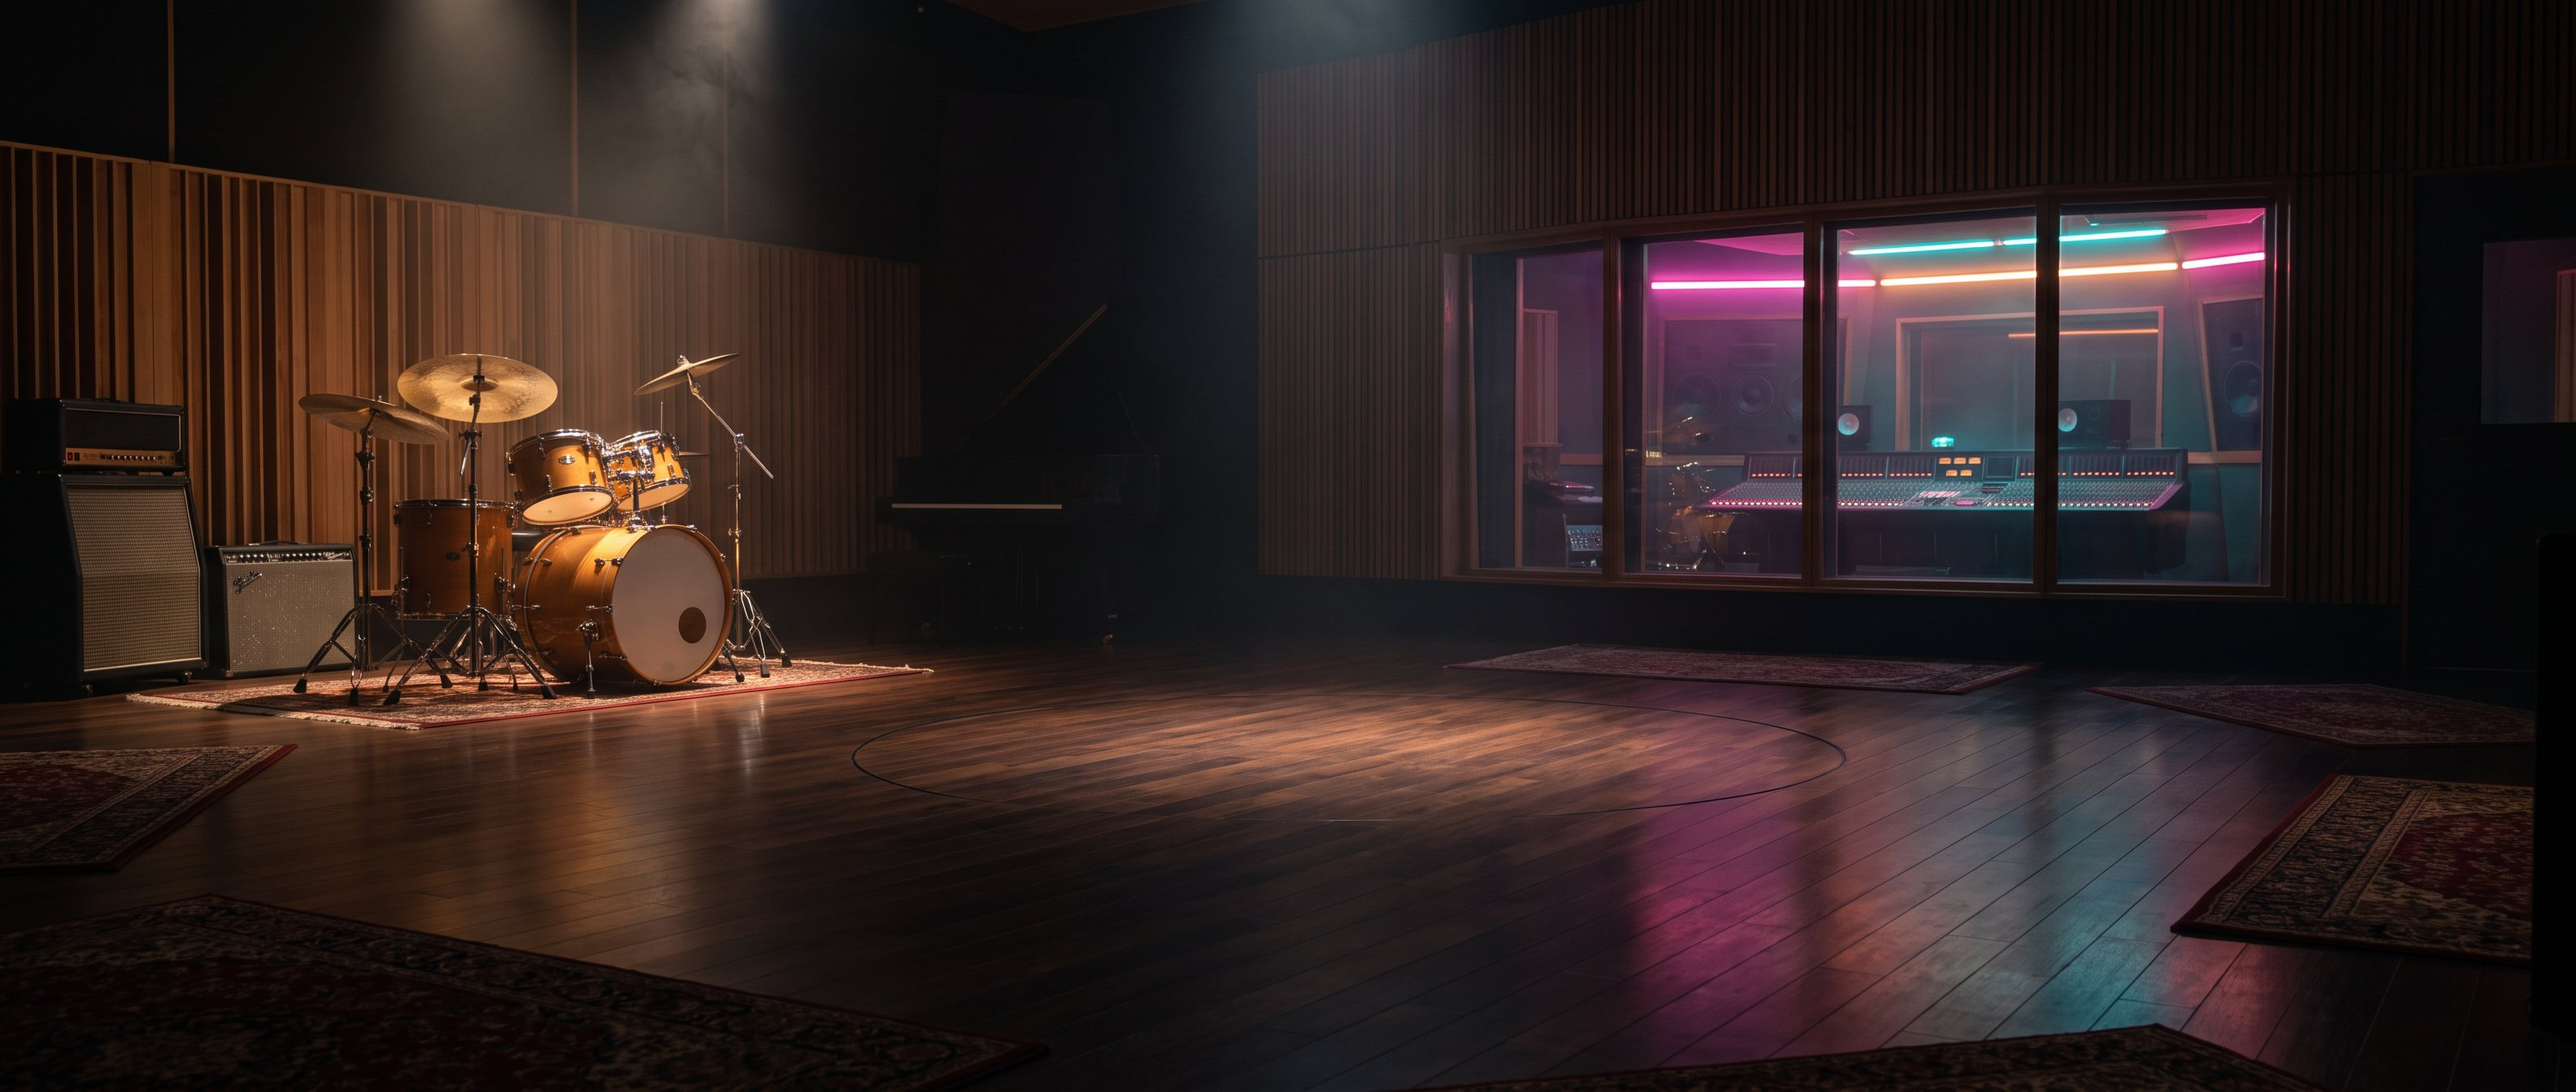
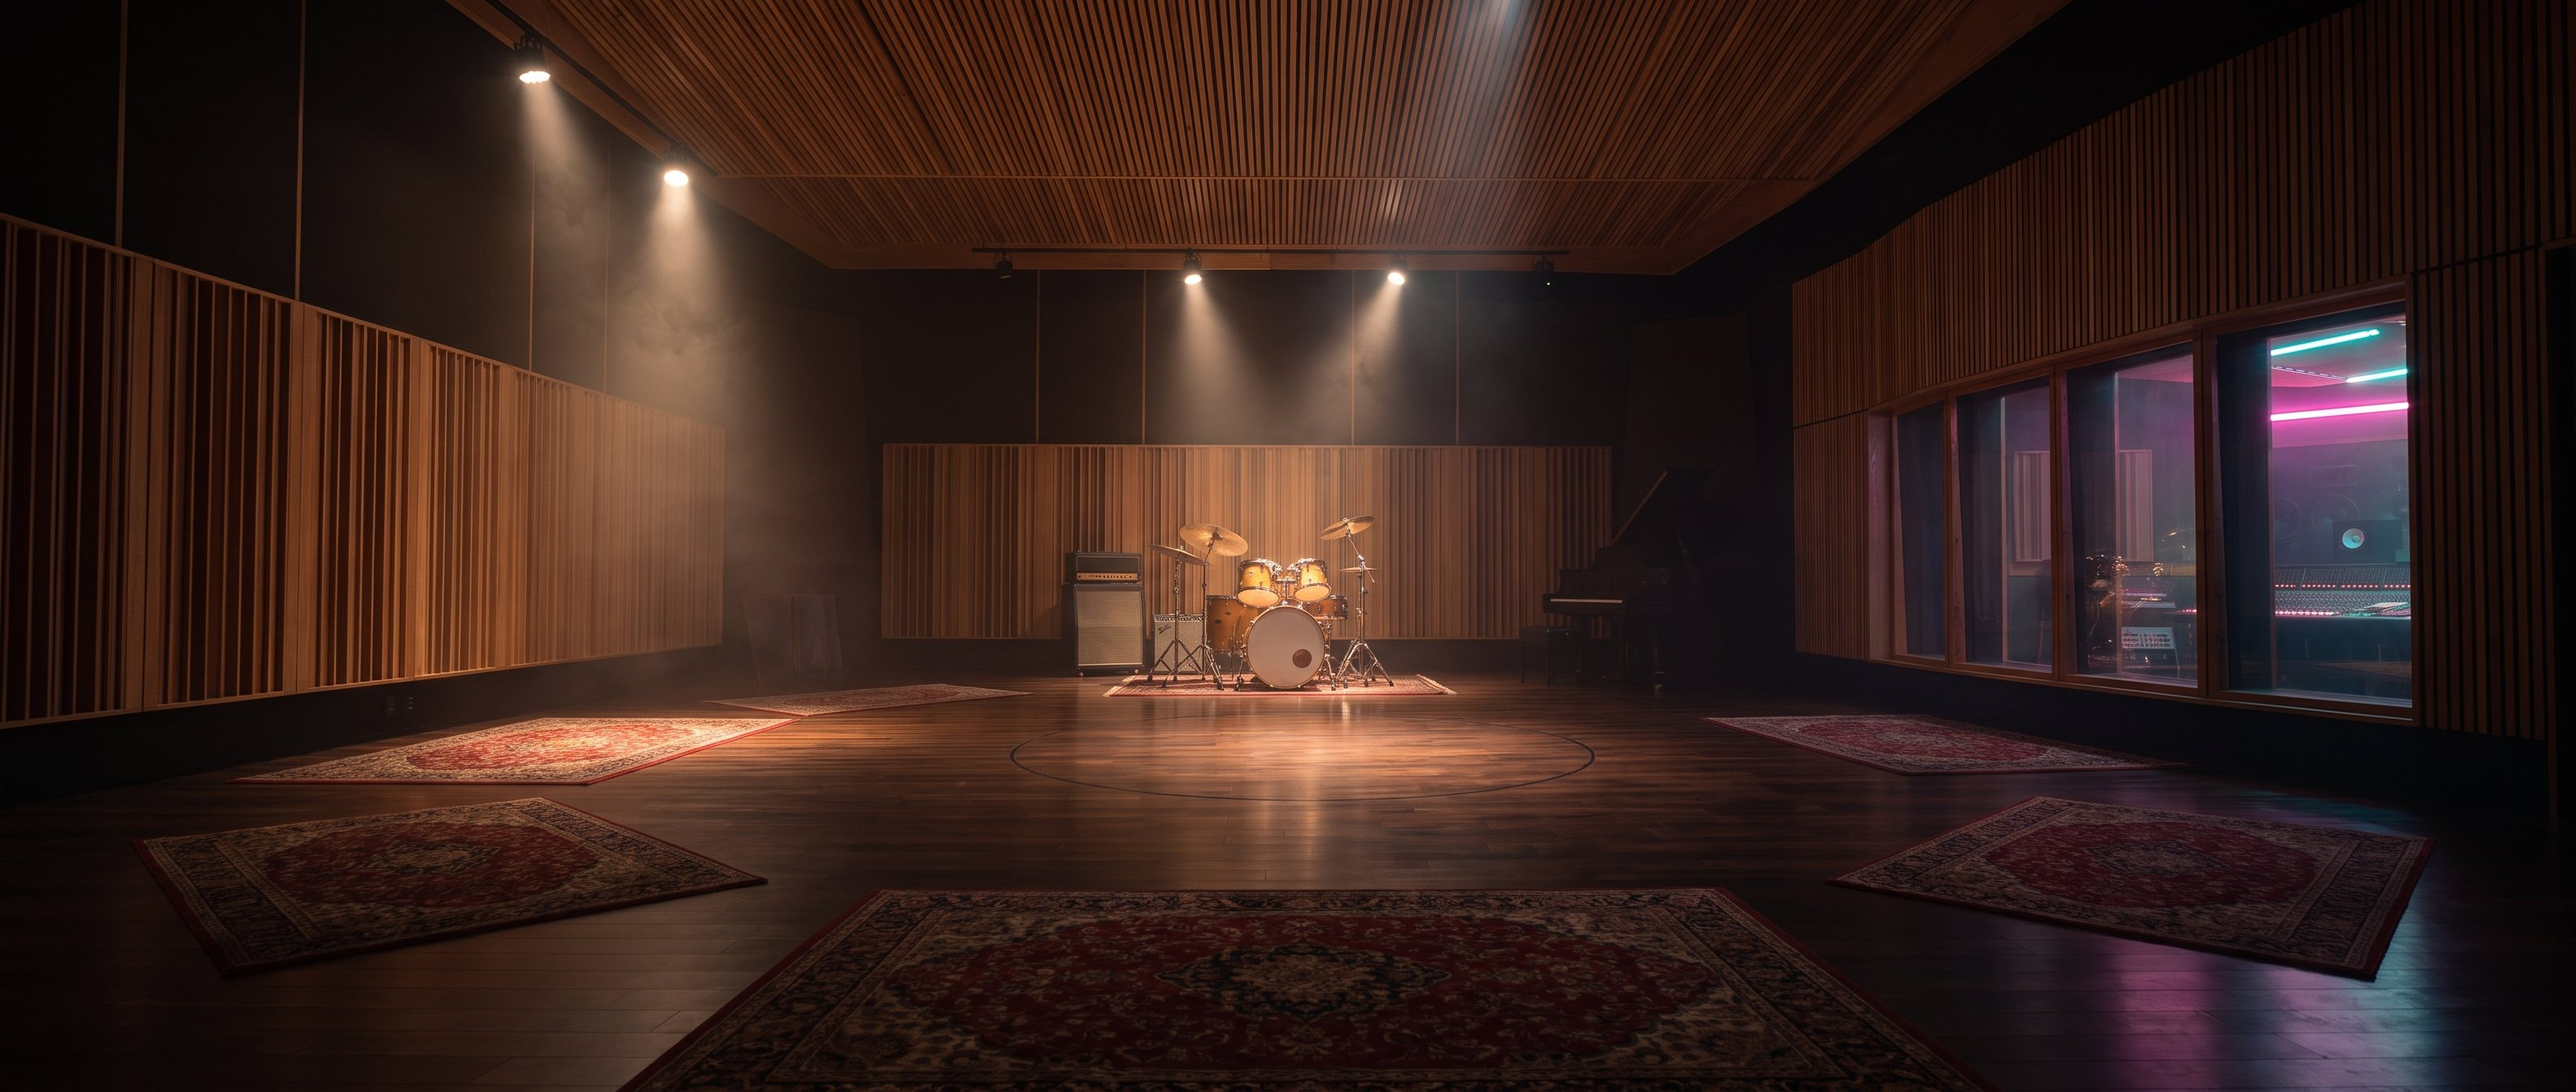
Talk: Berlin park, basketball court, studio in proportion
- Berlin is now a big sunny park (Tiergarten, Victory Column) with daylight
  lighting on him and no floating particles
- New York replaced by centre court in an empty basketball arena
- Studio regenerated as a wider shot and wrapped four times round instead
  of twice, so the drum kit and room sit in proportion to him; the kit sits
  off his shoulder rather than hidden behind him
- Per-world floor opacity, light levels and wrap count; loading text no
  longer says rooftop

diff --git a/public/talk/app.js b/public/talk/app.js
@@ -40,25 +40,29 @@ const camera = new THREE.PerspectiveCamera(32, 1, 0.1, 300);
 // so the edges always meet and you can swivel 360 degrees without a gap.
 const IMG_ASPECT = 3168 / 1344;
 const R = 34;
-const BH = (R * Math.PI) / IMG_ASPECT; // each copy spans half the circumference
+// Each world wraps its picture round the circle `copies` times (mirrored, so the joins are seamless).
+// Two copies suit skylines and big spaces; an interior uses four so its furniture is drawn at half the
+// size and sits in proportion to him.
+const bandHeight = (copies) => (2 * Math.PI * R) / copies / IMG_ASPECT;
+const BH = bandHeight(2);
 // Four worlds, all generated with the same framing (scripts/gen-world.mjs). Each one tints the
 // floor and the rim lights to match its light.
 const WORLDS = {
   bengaluru: { label: "Bengaluru", floor: 0x06070f, rimL: 0xff4fa3, rimR: 0xffa040, hemi: 0x7f8cff },
-  berlin: { label: "Berlin", floor: 0x0d0b09, rimL: 0xffb066, rimR: 0xffd49a, hemi: 0xc9b49a },
-  newyork: { label: "New York", floor: 0x110d10, rimL: 0xff7fa8, rimR: 0xffb36b, hemi: 0xb6a4d6 },
-  studio: { label: "Studio", floor: 0x0b0806, rimL: 0xff4fd2, rimR: 0x45dcff, hemi: 0x8a7a9a },
+  berlin: { label: "Berlin", floor: 0x1c2a12, floorOpacity: 0.55, rimL: 0xfff1d6, rimR: 0xffe2a8, hemi: 0xd6ecff, hemiI: 1.9, keyI: 3.2, particles: false },
+  court: { label: "Court", floor: 0x2a1708, floorOpacity: 0.6, rimL: 0xffb46b, rimR: 0x7fb4ff, hemi: 0xffe6c8, hemiI: 1.3, keyI: 2.8 },
+  studio: { label: "Studio", floor: 0x0b0806, rimL: 0xff4fd2, rimR: 0x45dcff, hemi: 0x8a7a9a, copies: 4, offset: 0.5 + 0.09 }, // kit off his shoulder, not hidden behind him
 };
 const worldParam = new URLSearchParams(location.search).get("world");
 let worldId = WORLDS[worldParam] ? worldParam : (() => { try { const w = JSON.parse(localStorage.getItem("pk-talk-v1"))?.world; return WORLDS[w] ? w : "bengaluru"; } catch { return "bengaluru"; } })();
 const texLoader = new THREE.TextureLoader();
 const worldTex = {};
 function loadWorldTex(id) {
-  return (worldTex[id] ||= new Promise((resolve, reject) => texLoader.load(`/talk/assets/worlds/${id}.jpg`, (t) => {
+  return (worldTex[id] ||= new Promise((resolve, reject) => texLoader.load(`/talk/assets/worlds/${id}.jpg?v=2`, (t) => {
     t.colorSpace = THREE.SRGBColorSpace;
     t.wrapS = THREE.MirroredRepeatWrapping;
-    t.repeat.x = -2;
-    t.offset.x = 0.5; // image centre directly behind him from the starting view
+    t.repeat.x = -(WORLDS[id].copies || 2);
+    t.offset.x = WORLDS[id].offset ?? 0.5; // image centre directly behind him from the starting view
     resolve(t);
   }, undefined, reject)));
 }
@@ -67,8 +71,14 @@ const backdrop = new THREE.Mesh(
   new THREE.CylinderGeometry(R, R, BH, 160, 1, true, Math.PI, Math.PI * 2),
   new THREE.MeshBasicMaterial({ map: backdropTex, color: 0x000000, side: THREE.BackSide, toneMapped: false })
 );
-// image horizon (45% from the top) at eye height, so the terrace floor in the picture lands behind his feet
-backdrop.position.set(0, 1.35 - 0.05 * BH + 2.6, 0);
+// image horizon (45% from the top) at eye height, so the terrace floor in the picture lands behind his feet;
+// the horizon stays at the same height whatever the band height
+const placeBackdrop = (copies) => {
+  const h = bandHeight(copies);
+  if (backdrop.geometry.parameters.height !== h) { backdrop.geometry.dispose(); backdrop.geometry = new THREE.CylinderGeometry(R, R, h, 160, 1, true, Math.PI, Math.PI * 2); }
+  backdrop.position.set(0, 1.35 - 0.05 * h + 2.6, 0);
+};
+placeBackdrop(2);
 scene.add(backdrop);
 
 // a dark glossy floor under him that fades out into the terrace in the picture
@@ -114,8 +124,11 @@ async function setWorld(id, instant = false) {
   if (mine !== worldSwitch) return;
   const w = WORLDS[id];
   backdrop.material.map = tex; backdrop.material.needsUpdate = true;
-  floor.material.color.setHex(w.floor);
+  placeBackdrop(w.copies || 2);
+  floor.material.color.setHex(w.floor); floor.material.opacity = w.floorOpacity ?? 0.92;
   rimL.color.setHex(w.rimL); rimR.color.setHex(w.rimR); hemi.color.setHex(w.hemi);
+  hemi.intensity = w.hemiI ?? 0.9; key.intensity = w.keyI ?? 2.4;
+  particles.visible = w.particles !== false;
   fadeWorld(1, instant ? 500 : 380);
 }
 function tickWorld(now) {

diff --git a/public/talk/index.html b/public/talk/index.html
@@ -29,7 +29,7 @@
   <link rel="preconnect" href="https://fonts.gstatic.com" crossorigin>
   <link href="https://fonts.googleapis.com/css2?family=Space+Grotesk:wght@400;500;700&family=Inter:wght@400;500&display=swap" rel="stylesheet">
   <link rel="preload" href="/talk/assets/bald_indian.glb?v=14" as="fetch" crossorigin>
-  <link rel="stylesheet" href="/talk/talk.css?v=20261008k">
+  <link rel="stylesheet" href="/talk/talk.css?v=20261008l">
   <script type="importmap">
   {
     "imports": {
@@ -58,9 +58,9 @@
   </header>
   <div id="worlds" class="worlds" role="group" aria-label="Choose a world" hidden>
     <button type="button" data-world="bengaluru"><img src="/talk/assets/worlds/bengaluru-thumb.jpg" alt="" width="96" height="72"><span>Bengaluru</span></button>
-    <button type="button" data-world="berlin"><img src="/talk/assets/worlds/berlin-thumb.jpg" alt="" width="96" height="72"><span>Berlin</span></button>
-    <button type="button" data-world="newyork"><img src="/talk/assets/worlds/newyork-thumb.jpg" alt="" width="96" height="72"><span>New York</span></button>
-    <button type="button" data-world="studio"><img src="/talk/assets/worlds/studio-thumb.jpg" alt="" width="96" height="72"><span>Studio</span></button>
+    <button type="button" data-world="berlin"><img src="/talk/assets/worlds/berlin-thumb.jpg?v=2" alt="" width="96" height="72"><span>Berlin</span></button>
+    <button type="button" data-world="court"><img src="/talk/assets/worlds/court-thumb.jpg" alt="" width="96" height="72"><span>Court</span></button>
+    <button type="button" data-world="studio"><img src="/talk/assets/worlds/studio-thumb.jpg?v=2" alt="" width="96" height="72"><span>Studio</span></button>
   </div>
 
   <p id="hint" class="hint"><span class="wide">Drag to swivel &middot; right-drag to pan &middot; scroll to zoom</span><span class="narrow">Drag to swivel &middot; pinch to zoom</span></p>
@@ -118,10 +118,10 @@
       <h1>Talk to Praveen</h1>
       <p class="lede">Builder. Applied AI. AI research. Ask the 3D version anything about the work. Short answers, guaranteed.</p>
       <div class="progress" aria-hidden="true"><span id="bar"></span></div>
-      <p id="intro-status" class="status">Loading the rooftop&hellip;</p>
+      <p id="intro-status" class="status">Loading his world&hellip;</p>
     </div>
   </div>
 
-  <script type="module" src="/talk/app.js?v=20261008k"></script>
+  <script type="module" src="/talk/app.js?v=20261008l"></script>
 </body>
 </html>

diff --git a/README.md b/README.md
@@ -13,7 +13,7 @@ Local preview: `npx serve public`
 
 ## Talk to Praveen (`/talk/`)
 
-A three.js avatar (`public/talk/`) in one of four Gemini-generated worlds (`public/talk/assets/worlds/`: Bengaluru rooftop, Berlin loft, New York rooftop, drum studio; made by `scripts/gen-world.mjs <world>`, picked with the globe button, remembered per browser, `?world=` to link one; each wrapped 360° with a mirrored copy; drag to swivel, right-drag to pan, scroll to zoom), with two Vercel functions:
+A three.js avatar (`public/talk/`) in one of four Gemini-generated worlds (`public/talk/assets/worlds/`: Bengaluru rooftop, Berlin park, basketball arena centre court, drum studio; made by `scripts/gen-world.mjs <world>`, picked with the globe button, remembered per browser, `?world=` to link one; each wrapped 360° with mirrored copies, four for the studio so it sits in proportion; drag to swivel, right-drag to pan, scroll to zoom), with two Vercel functions:
 
 - `api/chat.mjs`: Gemini chat with the persona and facts in `api/_persona.mjs`; returns `{ reply, gesture }`.
 - `api/tts.mjs`: streams 16-bit PCM. Default is Murf Falcon (`MURF_API_KEY`, `MURF_VOICE`, default `en-US-wayne`); without a Murf key it falls back to Google Gemini TTS (`GOOGLE_TTS_MODEL`, `GOOGLE_TTS_VOICE`). Set `TTS_PROVIDER=sarvam` and `SARVAM_API_KEY` to use Sarvam Bulbul v3.
